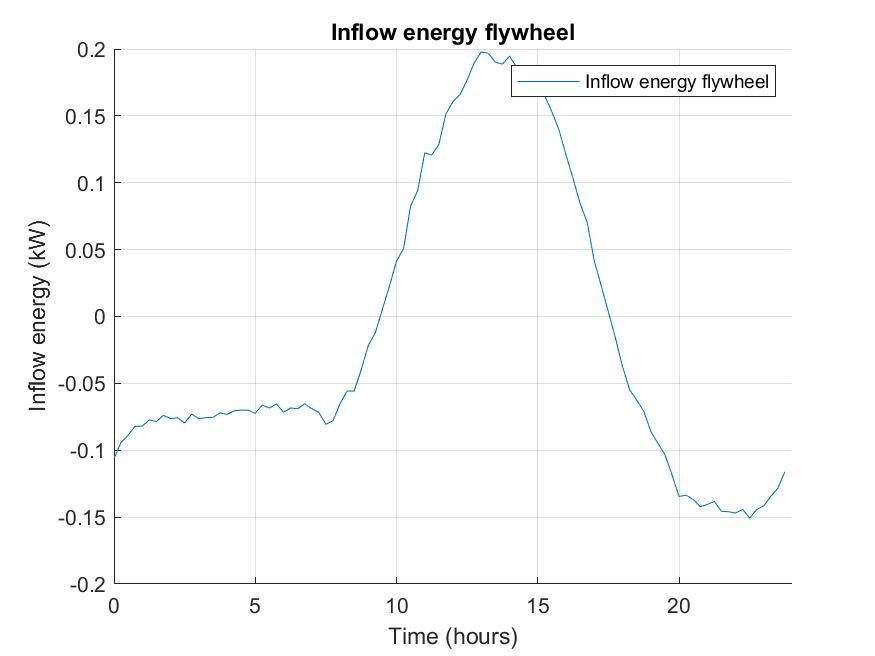
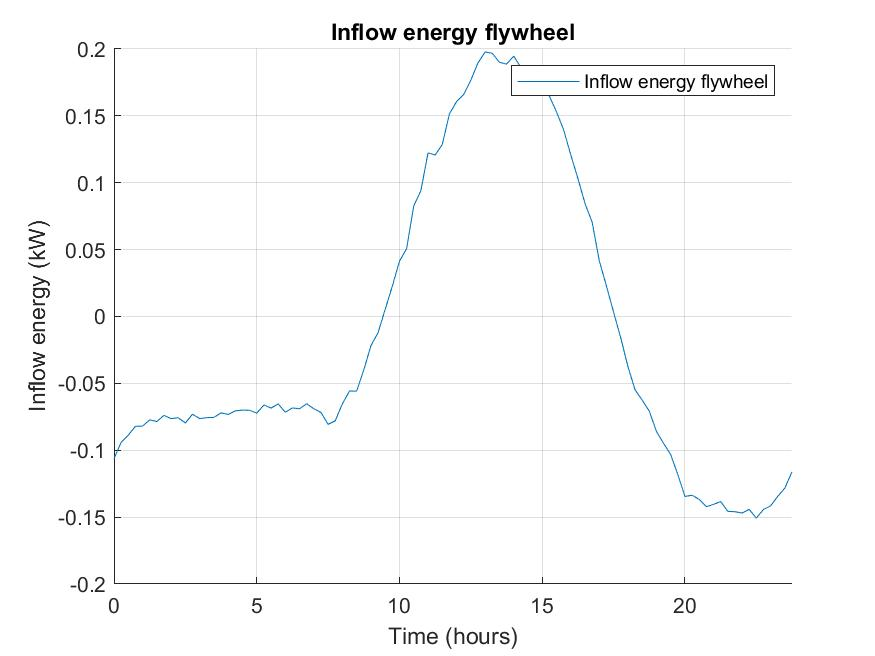
plotGraphs.m revert to 37a68ac

diff --git a/plotGraphs_scale.m b/plotGraphs_scale.m
@@ -9,8 +9,12 @@ t_var = table_flywheel(1,:);
 Omega_flywheel = table_flywheel(2,:);
 side_drag = table_flywheel(5,:);
 top_drag = table_flywheel(6,:);
+bearing_drag = table_flywheel(7,:);
+motor_drag = table_flywheel(8,:);
 E_energy = table_flywheel(3,:);
 E_inflow = table_flywheel(4,:);
+table_experiment = readmatrix(['datasets/CSVfiles/Dataset_2_angular_velocity.csv']);
+ang_experiment = table_experiment(2,:)
 
 %%Figure 1 for surplus
 if generate_fig1 == true
@@ -21,7 +25,7 @@ if generate_fig1 == true
     figure(1); ylabel('Inflow energy (kW)')
     figure(1); legend({'Inflow energy flywheel'}, 'Location','northeast')
 
-    figure(1); xlim([0 time_end]);
+    figure(1); xlim([0 24]);
     figure(1); xlabel('Time (hours)')
     figure(1); title('Inflow energy flywheel')
     figure(1); saveas(gcf,'figures\inflowEnergy.jpg')
@@ -32,11 +36,12 @@ if generate_fig2 == true
     figure(2);hold on
     figure(2);grid on
     figure(2); plot(t_var,Omega_flywheel);
+    figure(2); plot(t_var,ang_experiment)
 
     figure(2); ylabel('Angular velocity [rad/s]')
-    figure(2); legend({'Angular velocity [rad/s]'}, 'Location','northeast')
+    figure(2); legend({'Angular velocity [rad/s] MATLAB', 'Angular velocity [rad/s] Experiment'}, 'Location','northeast')
 
-    figure(2); xlim([0 time_end]);
+    figure(2); xlim([0 24]);
     figure(2); xlabel('Time (hours)')
     figure(2); title('Angular velocity flywheel')
     figure(2); saveas(gcf,'figures\angularVelocity.jpg')
@@ -48,11 +53,14 @@ if generate_fig3 == true
     figure(3);grid on
     figure(3); plot(t_var,side_drag);
     figure(3); plot(t_var,top_drag);
+    figure(3); plot(t_var,bearing_drag);
+    figure(4); plot(t_var, motor_drag);
+
 
     figure(3); ylabel('Losses [kW]')
-    figure(3); legend({'Losses due to side drag', 'Losses due to top drag'}, 'Location','northeast')
+    figure(3); legend({'Losses due to side drag', 'Losses due to top drag', 'Losses due to bearing friction', 'Losses due to motor friction'}, 'Location','northeast')
 
-    figure(3); xlim([0 time_end]);
+    figure(3); xlim([0 24]);
     figure(3); xlabel('Time (hours)')
     figure(3); title('Losses to air drag in kW')
     figure(3); saveas(gcf,'figures\airDrag.jpg')
